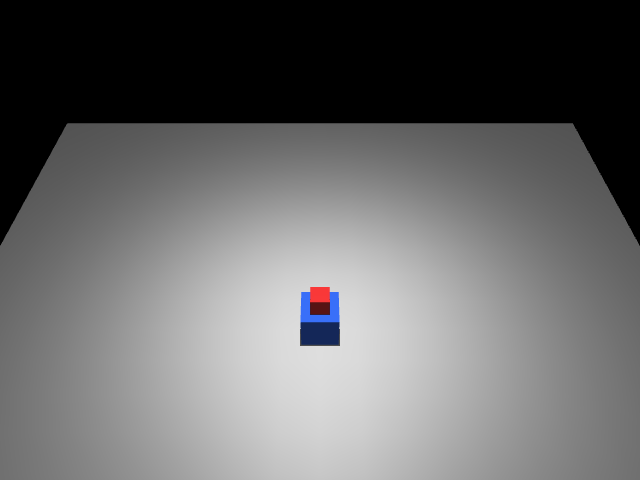
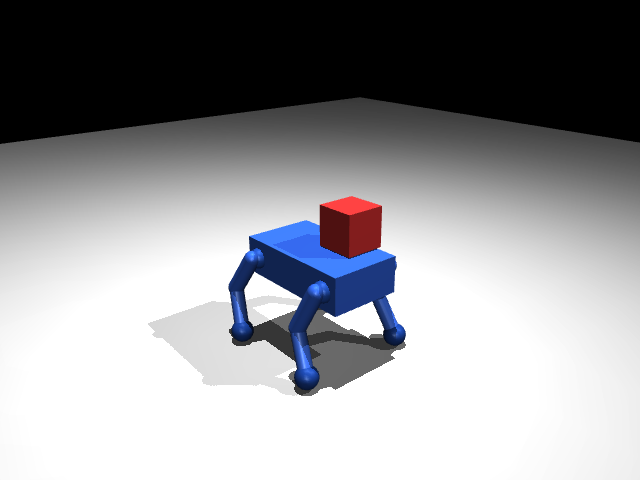
Replace blue box with a quadruped and standing balance control.
Adds a 12-DoF blue quadruped (abad/hip/knee per leg) with position
actuators, plus a posture controller that corrects roll, pitch, and
height so the robot stays upright under the falling red-box disturbance.

diff --git a/control.py b/control.py
@@ -1,0 +1,85 @@
+"""Standing / balance controller for the quadruped."""
+
+from __future__ import annotations
+
+import numpy as np
+import mujoco
+
+# Actuator order matches model.xml
+ACTUATOR_NAMES = [
+    "fl_abad", "fl_hip", "fl_knee",
+    "fr_abad", "fr_hip", "fr_knee",
+    "hl_abad", "hl_hip", "hl_knee",
+    "hr_abad", "hr_hip", "hr_knee",
+]
+
+# Nominal crouch pose (abad, hip, knee) per leg
+STAND_POSE = {
+    "fl": np.array([0.15, 0.45, -0.90]),
+    "fr": np.array([-0.15, 0.45, -0.90]),
+    "hl": np.array([0.15, 0.55, -0.95]),
+    "hr": np.array([-0.15, 0.55, -0.95]),
+}
+
+# Gains for orientation → posture correction
+K_ROLL = 0.55
+K_PITCH = 0.70
+K_HEIGHT = 1.2
+TARGET_HEIGHT = 0.22
+
+
+def torso_roll_pitch(data: mujoco.MjData) -> tuple[float, float]:
+    """Return (roll, pitch) of the torso from its world rotation matrix."""
+    R = data.body("torso").xmat.reshape(3, 3)
+    # Body z-axis in world frame
+    zx, zy, zz = R[:, 2]
+    roll = np.arctan2(zy, zz)
+    pitch = np.arctan2(-zx, np.sqrt(zy * zy + zz * zz))
+    return float(roll), float(pitch)
+
+
+def reset_to_stand(model: mujoco.MjModel, data: mujoco.MjData) -> None:
+    """Place the robot in the standing keyframe and clear velocities."""
+    key_id = mujoco.mj_name2id(model, mujoco.mjtObj.mjOBJ_KEY, "stand")
+    mujoco.mj_resetDataKeyframe(model, data, key_id)
+    data.qvel[:] = 0
+    mujoco.mj_forward(model, data)
+
+
+def apply_stability_control(model: mujoco.MjModel, data: mujoco.MjData) -> None:
+    """PD posture targets with roll/pitch/height balance corrections.
+
+    Position actuators track these targets; this layer adds a light
+    virtual-model style correction so the robot resists tip-over and
+    settles after disturbances (e.g. the falling red box).
+    """
+    roll, pitch = torso_roll_pitch(data)
+    height = float(data.body("torso").xpos[2])
+    height_err = TARGET_HEIGHT - height
+
+    # Height: bend/unbend knees (and a bit of hip) to hold torso height
+    knee_adj = np.clip(-K_HEIGHT * height_err, -0.35, 0.35)
+    hip_h_adj = np.clip(0.35 * K_HEIGHT * height_err, -0.2, 0.2)
+
+    # Pitch: lean forward → straighten front / crouch rear
+    front_hip = np.clip(-K_PITCH * pitch, -0.45, 0.45)
+    rear_hip = np.clip(K_PITCH * pitch, -0.45, 0.45)
+
+    # Roll: tip right (positive roll about x) → push right legs down
+    left_abad = np.clip(K_ROLL * roll, -0.35, 0.35)
+    right_abad = np.clip(-K_ROLL * roll, -0.35, 0.35)
+    left_knee_roll = np.clip(0.4 * K_ROLL * roll, -0.25, 0.25)
+    right_knee_roll = np.clip(-0.4 * K_ROLL * roll, -0.25, 0.25)
+
+    targets = {
+        "fl": STAND_POSE["fl"] + np.array([left_abad, front_hip + hip_h_adj, knee_adj + left_knee_roll]),
+        "fr": STAND_POSE["fr"] + np.array([right_abad, front_hip + hip_h_adj, knee_adj + right_knee_roll]),
+        "hl": STAND_POSE["hl"] + np.array([left_abad, rear_hip + hip_h_adj, knee_adj + left_knee_roll]),
+        "hr": STAND_POSE["hr"] + np.array([right_abad, rear_hip + hip_h_adj, knee_adj + right_knee_roll]),
+    }
+
+    for i, name in enumerate(ACTUATOR_NAMES):
+        leg = name[:2]
+        joint = name[3:]  # abad / hip / knee
+        idx = {"abad": 0, "hip": 1, "knee": 2}[joint]
+        data.ctrl[i] = float(np.clip(targets[leg][idx], -1.8, 1.8))

diff --git a/sim.py b/sim.py
@@ -1,7 +1,10 @@
+import os
+
 import mujoco
 import numpy as np
 from PIL import Image
-import os
+
+from control import apply_stability_control, reset_to_stand
 
 os.makedirs("artifacts", exist_ok=True)
 
@@ -9,13 +12,43 @@ model = mujoco.MjModel.from_xml_path("model.xml")
 data = mujoco.MjData(model)
 renderer = mujoco.Renderer(model, height=480, width=640)
 
+reset_to_stand(model, data)
+apply_stability_control(model, data)
 mujoco.mj_forward(model, data)
-renderer.update_scene(data)
+
+camera = mujoco.MjvCamera()
+mujoco.mjv_defaultFreeCamera(model, camera)
+camera.lookat[:] = [0.0, 0.0, 0.28]
+camera.distance = 1.35
+camera.elevation = -22
+camera.azimuth = 140
+
+renderer.update_scene(data, camera=camera)
 Image.fromarray(renderer.render()).save("artifacts/before.png")
 
-for _ in range(500):
-    mujoco.mj_step(model, data)
+# ~2.5 seconds at timestep 0.002 — enough for the red box to hit and settle
+n_steps = 1250
+heights = []
+rolls = []
+pitches = []
 
-renderer.update_scene(data)
+for _ in range(n_steps):
+    apply_stability_control(model, data)
+    mujoco.mj_step(model, data)
+    R = data.body("torso").xmat.reshape(3, 3)
+    zx, zy, zz = R[:, 2]
+    rolls.append(np.arctan2(zy, zz))
+    pitches.append(np.arctan2(-zx, np.sqrt(zy * zy + zz * zz)))
+    heights.append(data.body("torso").xpos[2])
+
+renderer.update_scene(data, camera=camera)
 Image.fromarray(renderer.render()).save("artifacts/after.png")
+renderer.close()
+
+final_height = heights[-1]
+max_abs_tilt = max(max(abs(r) for r in rolls), max(abs(p) for p in pitches))
+min_height = min(heights)
 print("Saved artifacts/before.png and artifacts/after.png")
+print(f"Final torso height: {final_height:.3f} m (min during run: {min_height:.3f})")
+print(f"Max |tilt| during run: {np.degrees(max_abs_tilt):.1f} deg")
+print(f"Red box final z: {data.body('red_box').xpos[2]:.3f} m")

diff --git a/sim_viewer.py b/sim_viewer.py
@@ -1,8 +1,11 @@
 import mujoco
 import mujoco.viewer
 
+from control import apply_stability_control, reset_to_stand
+
 model = mujoco.MjModel.from_xml_path("model.xml")
 data = mujoco.MjData(model)
+reset_to_stand(model, data)
 
 paused = True
 
@@ -16,5 +19,6 @@ def key_callback(keycode):
 with mujoco.viewer.launch_passive(model, data, key_callback=key_callback) as viewer:
     while viewer.is_running():
         if not paused:
+            apply_stability_control(model, data)
             mujoco.mj_step(model, data)
         viewer.sync()
